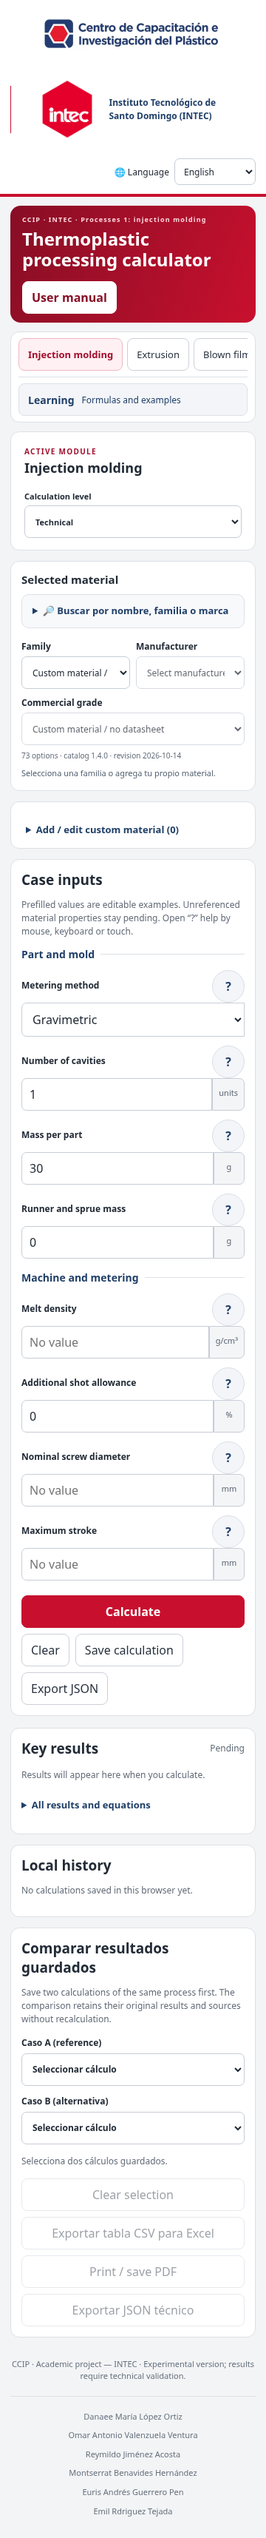
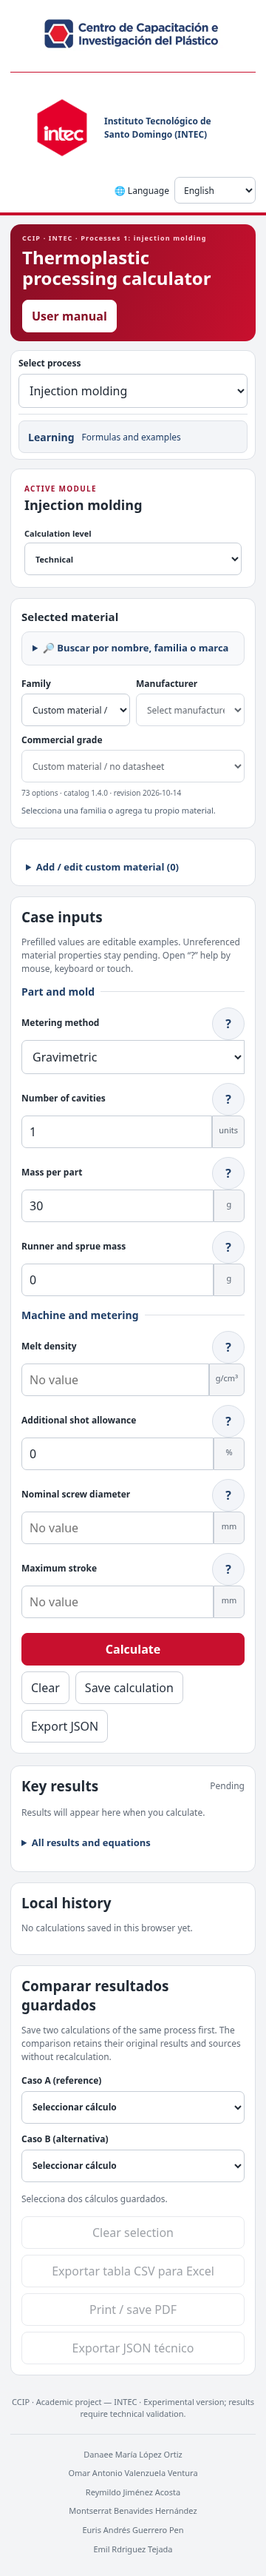
Fix mobile brand divider and share process navigation with responsive picker

diff --git a/src/styles.css b/src/styles.css
@@ -148,4 +148,8 @@ aside .learning-nav{display:block;overflow:visible;margin-top:16px;padding-top:1
 #user-manual{width:min(440px,calc(100% - 32px));padding:24px;border:1px solid var(--border);border-top:5px solid var(--red);border-radius:12px;color:var(--navy);background:#fff}#user-manual::backdrop{background:#15243b99}#user-manual h2{margin-top:0;font-size:22px}#user-manual p{font-size:15px;line-height:1.6}#user-manual form{text-align:right}
 .credits-divider{border:0;border-top:1px solid var(--border);margin:18px auto;max-width:660px}.academic-credits{list-style:none;padding:0;margin:0;display:grid;gap:8px;text-align:center;line-height:1.6;font-size:12px;font-weight:400;color:#65717d}
 @media(max-width:800px){.top{grid-template-columns:minmax(0,1fr);gap:0}.top .version-links{width:100%;justify-content:flex-end;margin-bottom:8px}.institutional-identity{justify-content:space-between}.hero{align-items:flex-start;gap:16px}.hero-copy{width:100%}}
-@media(max-width:540px){.institutional-identity{display:grid;grid-template-columns:1px minmax(0,1fr);gap:0 12px}.institutional-identity .brand{grid-column:1/-1;justify-self:center;width:252px;max-width:100%}.institutional-divider{grid-column:1}.intec-brand{grid-column:2;gap:12px;padding:12px}.institution-name{font-size:12px}.intec-logo{width:90px}.institutional-divider{height:64px}.hero{flex-direction:column;gap:14px}.hero .kicker{font-size:9px;line-height:1.5}.hero h1{font-size:24px;line-height:1.2}.academic-credits{font-size:11px}}
+@media(max-width:540px){.institutional-identity{display:grid;grid-template-columns:minmax(0,1fr);gap:12px 0}.institutional-identity .brand{grid-column:1;justify-self:center;width:252px;max-width:100%}.institutional-divider{grid-column:1;grid-row:2;width:100%;height:1px}.intec-brand{grid-column:1;grid-row:3;justify-self:center;width:100%;max-width:332px;gap:12px;padding:12px}.institution-name{font-size:12px}.intec-logo{width:90px}.hero{flex-direction:column;gap:14px}.hero .kicker{font-size:9px;line-height:1.5}.hero h1{font-size:24px;line-height:1.2}.academic-credits{font-size:11px}}
+
+/* El desplegable móvil comparte selectProcess con los botones de escritorio. */
+.mobile-process-picker{display:none}
+@media(max-width:800px){.mobile-process-picker{display:grid;gap:6px}.mobile-process-picker label{font-size:12px;font-weight:700}.mobile-process-picker select{width:100%;min-height:44px}aside #modules{display:none}}

diff --git a/src/app.js b/src/app.js
@@ -43,20 +43,26 @@ function invalidate() {
   for(const input of document.querySelectorAll('[data-field]')) input.removeAttribute('aria-invalid');
 }
 
+function selectProcess(id) {
+  if (!modules.some(m => m.id === id)) return;
+  sessions.set(state.id, { values: state.values, material: state.material, filters: state.filters });
+  const selectedGrade = state.material.grade_snapshot?.id;
+  state.id = id;
+  const session = sessions.get(state.id);
+  state.values = session?.values || initialValues();
+  state.material = session?.material || freshMaterial();
+  state.filters = session?.filters || { family: "", manufacturer: "" };
+  if (!session && selectedGrade) selectMaterial(library, state.material, state.values, selectedGrade);
+  closeLearning();draw();
+}
+
 function nav() {
   $("modules").innerHTML = modules.map(m => `<button data-module="${m.id}" aria-pressed="${m.id === state.id}" class="${m.id === state.id ? "active" : ""}">${safe(m.name)}</button>`).join("");
-  document.querySelectorAll("[data-module]").forEach(b => b.addEventListener("click", () => {
-    sessions.set(state.id, { values: state.values, material: state.material, filters: state.filters });
-    const selectedGrade = state.material.grade_snapshot?.id;
-    state.id = b.dataset.module;
-    const session = sessions.get(state.id);
-    state.values = session?.values || initialValues();
-    state.material = session?.material || freshMaterial();
-    state.filters = session?.filters || { family: "", manufacturer: "" };
-    if (!session && selectedGrade) selectMaterial(library, state.material, state.values, selectedGrade);
-    closeLearning();draw();
-  }));
+  document.querySelectorAll("[data-module]").forEach(b => b.addEventListener("click", () => selectProcess(b.dataset.module)));
+  $("process-select").innerHTML = modules.map(m => `<option value="${m.id}">${safe(m.name)}</option>`).join("");
+  $("process-select").value = state.id;
 }
+$("process-select").addEventListener("change", event => selectProcess(event.target.value));
 
 function draw() {
   nav();

diff --git a/index.html b/index.html
@@ -16,7 +16,7 @@
   <main class="shell">
     <section class="hero"><div class="hero-copy"><p class="kicker">CCIP · INTEC · Procesos 1: inyección</p><h1>Calculadora de procesos de transformación termoplásticos</h1><p>Selecciona el proceso y el nivel. Calcula con datos de tu caso y consulta las ayudas «?» y las fuentes cuando las necesites.</p></div><button id="manual-open" type="button" aria-haspopup="dialog" aria-controls="user-manual">Manual de uso</button></section>
     <div class="layout">
-      <aside><h2>Procesos</h2><nav id="modules" aria-label="Módulos de cálculo"></nav><nav class="learning-nav" aria-label="Aprendizaje"><a id="learn-page" href="./?view=learning"><b>Aprendizaje</b><span>Fórmulas y ejemplos</span></a></nav><p class="muted">Estimaciones académicas. Contrasta los resultados con fichas, mediciones y límites del equipo.</p></aside>
+      <aside><h2>Procesos</h2><div class="mobile-process-picker"><label for="process-select">Seleccionar proceso</label><select id="process-select"></select></div><nav id="modules" aria-label="Módulos de cálculo"></nav><nav class="learning-nav" aria-label="Aprendizaje"><a id="learn-page" href="./?view=learning"><b>Aprendizaje</b><span>Fórmulas y ejemplos</span></a></nav><p class="muted">Estimaciones académicas. Contrasta los resultados con fichas, mediciones y límites del equipo.</p></aside>
       <section class="work"><div id="calculator-view">
         <div class="bar"><div><p class="kicker">MÓDULO ACTIVO</p><h2 id="module-title"></h2><p id="module-desc" class="muted"></p></div><label class="level" for="level">Nivel de cálculo<select id="level"><option value="basic">Básico</option><option value="technical" selected>Técnico</option><option value="advanced">Avanzado</option></select></label></div>
         <section id="materials" class="panel material-panel" aria-labelledby="materials-title"></section><section id="custom-material-editor" class="panel" aria-label="Agregar material / Add custom material"></section>

diff --git a/src/i18n.js b/src/i18n.js
@@ -11,6 +11,7 @@ export const translations = { ...extraTranslations, ...auditTranslations, ...lea
 "Manual de uso en preparación":"User manual in preparation",
 "Cerrar":"Close",
 "Créditos académicos":"Academic credits",
+"Seleccionar proceso":"Select process",
 "Identidad institucional CCIP e INTEC":"CCIP and INTEC institutional identity",
 "Logo comercial del Instituto Tecnológico de Santo Domingo (INTEC)":"Commercial logo of Instituto Tecnológico de Santo Domingo (INTEC)",
 "Calculadoras de procesos plásticos":"Plastic process calculators",

diff --git a/tests/browser_smoke.py b/tests/browser_smoke.py
@@ -72,8 +72,15 @@ class BrowserSmoke(unittest.TestCase):
         finally:
             self.context.close()
 
+    def select_process(self, module):
+        picker = self.page.locator('#process-select')
+        if picker.count() and picker.is_visible():
+            picker.select_option(module)
+        else:
+            self.page.locator(f'[data-module="{module}"]').click()
+
     def fill_case(self, module, values, level="advanced"):
-        self.page.locator(f'[data-module="{module}"]').click()
+        self.select_process(module)
         self.page.locator('#level').select_option(level)
         if module=='secado' and self.page.locator('#calculation-grid').is_hidden():
             self.page.locator('#drying-manual').click()
@@ -92,7 +99,6 @@ class BrowserSmoke(unittest.TestCase):
 
     def assert_layout(self):
         self.assertTrue(self.page.evaluate('document.documentElement.scrollWidth <= innerWidth'), 'Desbordamiento horizontal de página')
-        # El menú móvil tiene desplazamiento horizontal intencional.
         outside = self.page.locator('input, select, .actions button, .metric strong, .help').evaluate_all('''els => els.filter(el => {
           const r = el.getBoundingClientRect();
           return r.width > 0 && (r.left < -1 || r.right > innerWidth + 1);
@@ -205,7 +211,7 @@ class BrowserSmoke(unittest.TestCase):
         r=self.record();self.assertEqual(len(r['metrics']),11);self.assertIsNone(r['metrics'][8]['value']);self.assertGreater(len(r['notes']),0)
 
     def test_T11_drying_filter_and_autofill(self):
-        self.page.locator('[data-module="secado"]').click();self.page.locator('#level').select_option('advanced')
+        self.select_process('secado');self.page.locator('#level').select_option('advanced')
         self.assertEqual(set(self.page.locator('#material-family option').evaluate_all('els=>els.map(e=>e.value)')),{'','ABS','PA6','PC'})
         self.grade('basf-ultramid-b3s-r03')
         self.assertEqual(self.page.locator('[data-field="residence"]').input_value(),'4')
@@ -216,14 +222,14 @@ class BrowserSmoke(unittest.TestCase):
         self.assertEqual(r['material']['used_fields']['residence']['reference']['value'],4)
 
     def test_T12_unavailable_drying_keeps_manual_path(self):
-        self.grade('generic-hdpe');self.page.locator('[data-module="secado"]').click()
+        self.grade('generic-hdpe');self.select_process('secado')
         self.assertTrue(self.page.locator('#calculation-grid').is_hidden())
         self.assertIn('no tiene tiempo/temperatura',self.page.locator('#drying-status').inner_text())
         self.page.locator('#drying-manual').click();self.assertTrue(self.page.locator('#calculation-grid').is_visible())
         self.page.locator('[data-field="residence"]').fill('3');r=self.record();self.assertEqual(r['metrics'][0]['value'],150)
 
     def test_T13_ranges_require_choice(self):
-        self.page.locator('[data-module="secado"]').click();self.page.locator('#level').select_option('advanced');self.grade('covestro-makrolon-2405')
+        self.select_process('secado');self.page.locator('#level').select_option('advanced');self.grade('covestro-makrolon-2405')
         self.assertEqual(self.page.locator('[data-field="residence"]').input_value(),'')
         self.assertEqual(self.page.locator('[data-field="targetT"]').input_value(),'120')
         self.page.locator('[data-field="residence"]').fill('2.5');r=self.record()
@@ -236,7 +242,7 @@ class BrowserSmoke(unittest.TestCase):
         self.assertIn('fuera del rango',r['material']['used_fields']['residence']['selection_reason'])
 
     def test_T14_no_inferred_cp(self):
-        self.page.locator('[data-module="secado"]').click();self.page.locator('#level').select_option('advanced');self.grade('basf-ultramid-b3s-r03')
+        self.select_process('secado');self.page.locator('#level').select_option('advanced');self.grade('basf-ultramid-b3s-r03')
         r=self.record();self.assertIsNone(r['metrics'][2]['value']);self.assertIsNone(r['material']['grade_snapshot']['properties']['specific_heat'])
         self.assertNotIn('Potencia térmica',self.page.locator('#calculation-output').inner_text())
         self.help('bulkDensity');self.page.locator('#material-physicalForm').select_option('pellets')
@@ -244,9 +250,9 @@ class BrowserSmoke(unittest.TestCase):
         self.assertEqual(self.page.locator('[data-field="bulkDensity"]').input_value(),'0.7')
 
     def test_T15_filters_are_process_specific(self):
-        self.grade('generic-hdpe');self.page.locator('[data-module="secado"]').click()
+        self.grade('generic-hdpe');self.select_process('secado')
         self.assertEqual(self.page.locator('#material-family option[value="HDPE"]').count(),0)
-        self.page.locator('[data-module="inyeccion"]').click()
+        self.select_process('inyeccion')
         self.assertEqual(self.page.locator('#material-grade').input_value(),'generic-hdpe')
         self.assertEqual(self.page.locator('[data-field="meltDensity"]').input_value(),'0.73')
 
@@ -300,9 +306,9 @@ class BrowserSmoke(unittest.TestCase):
         self.density(level='advanced');self.page.locator('#profile-details > summary').click();self.page.locator('#calculate').click()
         for scene in ['inyeccion','secado','sin-ficha','aprendizaje']:
             if scene=='secado':
-                self.page.locator('[data-module="secado"]').click();self.grade('basf-ultramid-b3s-r03');self.page.locator('#calculate').click()
+                self.select_process('secado');self.grade('basf-ultramid-b3s-r03');self.page.locator('#calculate').click()
             if scene=='sin-ficha':
-                self.page.locator('[data-module="inyeccion"]').click();self.grade('generic-hdpe')
+                self.select_process('inyeccion');self.grade('generic-hdpe')
             if scene=='aprendizaje':
                 self.page.locator('#learn-page').click();self.page.locator('#guide-inyeccion > summary').click();self.page.locator('#inyeccion-1 > summary').click()
             for width in [320,390,768,1024,1440]:
@@ -327,11 +333,11 @@ class BrowserSmoke(unittest.TestCase):
         self.assertTrue(all(x is None for x in r['material']['grade_snapshot']['properties'].values()))
         self.assertEqual(r['density_assessment']['origin'],'family_reference')
         self.assertIsNone(r['material']['grade_snapshot']['properties']['melt_density'])
-        self.page.locator('[data-module="secado"]').click();self.assertEqual(self.page.locator('#material-grade option[value="'+record['id']+'"]').count(),0)
+        self.select_process('secado');self.assertEqual(self.page.locator('#material-grade option[value="'+record['id']+'"]').count(),0)
 
     def test_T24_english_essential_flows(self):
         self.density();self.help('meltDensity');self.page.locator('#language').select_option('en');self.english_ui_is_complete()
-        self.page.keyboard.press('Escape');self.page.locator('[data-module="secado"]').click();self.english_ui_is_complete()
+        self.page.keyboard.press('Escape');self.select_process('secado');self.english_ui_is_complete()
         self.grade('basf-ultramid-b3s-r03');self.page.locator('#level').select_option('advanced');self.help('residence');self.english_ui_is_complete()
         self.page.keyboard.press('Escape');self.page.locator('#learn-page').click();self.page.locator('#guide-inyeccion > summary').click();self.page.locator('#inyeccion-1 > summary').click();self.english_ui_is_complete()
     def open_custom_property(self, key):
@@ -579,7 +585,7 @@ class BrowserSmoke(unittest.TestCase):
             self.assertEqual(self.page.locator('.academic-credits strong').count(),0)
             styles=self.page.locator('.academic-credits li').evaluate_all('els=>els.map(el=>{const s=getComputedStyle(el);return s.color+"|"+s.fontWeight})')
             self.assertEqual(len(set(styles)),1)
-            for width in [360,390,768,1024,1440]:
+            for width in [360,390,540,768,1024,1440]:
                 self.page.set_viewport_size({'width':width,'height':1000})
                 self.assert_layout()
                 self.assertTrue(self.page.locator('#manual-open').is_visible())
@@ -613,7 +619,7 @@ class BrowserSmoke(unittest.TestCase):
         self.assertEqual(self.page.locator('[data-lesson]').count(),42)
 
     def test_G40_stage1_official_logos_divider_and_clearspace(self):
-        for width in [360,390,768,1024,1440]:
+        for width in [360,390,540,768,1024,1440]:
             self.page.set_viewport_size({'width':width,'height':1000})
             for lang in ['es','en']:
                 self.page.locator('#language').select_option(lang)
@@ -631,11 +637,17 @@ class BrowserSmoke(unittest.TestCase):
                 self.assertGreaterEqual(name.bounding_box()['x'],box['x']+box['width'])
                 self.assertGreaterEqual(name.bounding_box()['x']-box['x']-box['width'],2*38*box['width']/801)
                 if width<=540:
-                    self.assertLessEqual(ccip['y']+ccip['height'],box['y'])
+                    self.assertLessEqual(ccip['y']+ccip['height'],divider['y'])
+                    self.assertLessEqual(divider['y']+divider['height'],box['y'])
+                    self.assertLessEqual(divider['height'],1.1)
+                    identity=self.page.locator('.institutional-identity').bounding_box()
+                    self.assertAlmostEqual(divider['x'],identity['x'],delta=1)
+                    self.assertAlmostEqual(divider['width'],identity['width'],delta=1)
+                    self.assertAlmostEqual(ccip['x']+ccip['width']/2,identity['x']+identity['width']/2,delta=1)
                 else:
                     self.assertLessEqual(ccip['x']+ccip['width'],divider['x'])
-                self.assertLess(divider['x'],box['x'])
-                self.assertLessEqual(divider['width'],1.1)
+                    self.assertLess(divider['x'],box['x'])
+                    self.assertLessEqual(divider['width'],1.1)
                 if width>540:
                     self.assertAlmostEqual(ccip['y']+ccip['height']/2,box['y']+box['height']/2,delta=1)
                 padding=logo.evaluate('el=>parseFloat(getComputedStyle(el.parentElement).paddingLeft)')
@@ -644,6 +656,75 @@ class BrowserSmoke(unittest.TestCase):
                 language=self.page.locator('#language').bounding_box()
                 self.assertTrue(language['x']>=box['x']+box['width'] or language['y']>=box['y']+box['height'])
         self.assertEqual(self.page.locator('.brand').get_attribute('href'),'./')
+
+    def test_G41_mobile_process_picker_and_desktop_buttons(self):
+        ids=['inyeccion','extrusion','pelicula','soplado','termoformado','secado','costos']
+        spanish=['Moldeo por inyección','Extrusión','Película soplada','Soplado de envases','Termoformado','Secado y acondicionamiento','Producción y costos']
+        english=['Injection molding','Extrusion','Blown film','Blow molding','Thermoforming','Drying and conditioning','Production and costs']
+        for width in [360,390,540,768,1024,1440]:
+            self.page.set_viewport_size({'width':width,'height':1000})
+            for language in ['es','en']:
+                self.page.locator('#language').select_option(language)
+                picker=self.page.locator('#process-select')
+                self.assertEqual(picker.locator('option').count(),7)
+                self.assertEqual(picker.locator('option').evaluate_all('els=>els.map(el=>el.value)'),ids)
+                self.assertEqual(picker.locator('option').all_text_contents(),spanish if language=='es' else english)
+                self.assertEqual(self.page.locator('label[for="process-select"]').text_content(),'Seleccionar proceso' if language=='es' else 'Select process')
+                self.assertEqual(picker.is_visible(),width<=800)
+                self.assertEqual(self.page.locator('#modules').is_visible(),width>800)
+                for i,module in enumerate(ids):
+                    self.select_process(module)
+                    self.assertEqual(picker.input_value(),module)
+                    self.assertEqual(self.page.locator('#modules .active').get_attribute('data-module'),module)
+                    selected=picker.locator('option:checked').text_content()
+                    self.assertEqual(self.page.locator('#module-title').text_content(),selected)
+                    level=['basic','technical','advanced'][i%3]
+                    self.page.locator('#level').select_option(level)
+                    if module=='secado':
+                        self.grade('ineos-styrolution-terluran-gp-22')
+                        drying=next(m for m in MATERIALS if m['id']=='ineos-styrolution-terluran-gp-22')['properties']['drying_time']
+                        duration=drying['value'] if drying['value'] is not None else drying['range'][0]
+                        self.page.locator('[data-field="residence"]').fill(str(duration))
+                    self.page.locator('#calculate').click()
+                    self.assertGreater(self.page.locator('.kpi').count(),0,(width,language,module,self.page.locator('#calculation-output').inner_text(),self.page.locator('input[data-field]').evaluate_all('els=>els.map(e=>[e.dataset.field,e.value])')))
+                    self.assertEqual(self.page.locator('#level').input_value(),level)
+                    self.assert_layout()
+                self.assertTrue(self.page.locator('aside').evaluate('el=>el.scrollWidth<=el.clientWidth'))
+
+    def test_G42_process_picker_sync_sessions_learning_and_history(self):
+        self.page.set_viewport_size({'width':390,'height':1000})
+        self.grade('generic-hdpe')
+        self.page.locator('[data-field="partMass"]').fill('47')
+        self.page.locator('#save').click()
+        self.select_process('extrusion')
+        self.page.locator('[data-field="width"]').fill('630')
+        self.page.locator('#level').select_option('advanced')
+        self.select_process('inyeccion')
+        self.assertEqual(self.page.locator('[data-field="partMass"]').input_value(),'47')
+        self.assertEqual(self.page.locator('#material-grade').input_value(),'generic-hdpe')
+        self.assertEqual(self.page.locator('#level').input_value(),'advanced')
+        self.page.set_viewport_size({'width':1440,'height':1000})
+        self.page.locator('[data-module="extrusion"]').click()
+        self.assertEqual(self.page.locator('#process-select').input_value(),'extrusion')
+        self.assertEqual(self.page.locator('[data-field="width"]').input_value(),'630')
+        self.page.set_viewport_size({'width':390,'height':1000})
+        self.assertEqual(self.page.locator('#process-select').input_value(),'extrusion')
+        self.page.locator('[data-history="0"]').click()
+        self.assertEqual(self.page.locator('#process-select').input_value(),'inyeccion')
+        self.page.locator('#learn-page').click()
+        self.assertIn('view=learning',self.page.url)
+        self.page.locator('#process-select').select_option('costos')
+        self.assertTrue(self.page.locator('#learning-view').is_hidden())
+        self.assertEqual(self.page.locator('#process-select').input_value(),'costos')
+        self.page.go_back()
+        self.assertTrue(self.page.locator('#learning-view').is_visible())
+        self.page.go_forward()
+        self.assertTrue(self.page.locator('#learning-view').is_hidden())
+        self.assertEqual(self.page.locator('#process-select').input_value(),'costos')
+        self.page.locator('#language').select_option('en')
+        self.assertEqual(self.page.locator('#process-select').input_value(),'costos')
+        self.select_process('extrusion')
+        self.assertEqual(self.page.locator('[data-field="width"]').input_value(),'630')
 
     def test_G32_custom_crud_import_export_persistence_and_units(self):
         self.open_custom_property('melt_density')
@@ -785,7 +866,7 @@ class BrowserSmoke(unittest.TestCase):
 
     def test_G37_custom_drying_filter_and_bulk_phase(self):
         record=self.page.evaluate('''async()=>{const {makeCustomMaterial}=await import('./src/custom-materials.js');const m=makeCustomMaterial({family:'PVC',grade:'PVC propio sintético',source:'Protocolo sintético, no propiedad industrial',drying_time:2,drying_temperature:60,bulk_density:500,bulk_density_unit:'kg/m3',bulk_density_form:'pellets'});localStorage.setItem('ccip-user-materials-v1',JSON.stringify([m]));return m}''')
-        self.page.reload();self.page.locator('[data-module="secado"]').click();self.page.locator('#level').select_option('technical');self.select_grade(record)
+        self.page.reload();self.select_process('secado');self.page.locator('#level').select_option('technical');self.select_grade(record)
         self.assertEqual(self.page.locator('[data-field="residence"]').input_value(),'2')
         self.help('bulkDensity');self.page.locator('#material-physicalForm').select_option('pellets')
         self.help('bulkDensity');self.page.locator('#material-bulkCompatible').check()

diff --git a/docs/etapa-1-identidad-aprendizaje.md b/docs/etapa-1-identidad-aprendizaje.md
@@ -6,14 +6,14 @@ Base funcional auditada: `feature/historial-nombres-comparacion-limpiar`, PR #9,
 
 | Punto del plan | Resultado | Archivos |
 | --- | --- | --- |
-| 6 · Cabecera | CCIP conservado a la izquierda, divisor vertical y logo comercial oficial INTEC a su derecha. Nombre completo «Instituto Tecnológico de Santo Domingo (INTEC)» junto al logo, sin traducir. Idioma y estado experimental conservados. Cabecera responsive compartida con la ruta histórica de fórmulas | `index.html`, `formulas.html`, `src/styles.css`, `src/assets/logo-intec-comercial.png` |
+| 6 · Cabecera | CCIP conservado a la izquierda, divisor vertical en escritorio / horizontal hasta 540 px y logo comercial oficial INTEC a su derecha o debajo, respectivamente. Nombre completo «Instituto Tecnológico de Santo Domingo (INTEC)» junto al logo, sin traducir. Idioma y estado experimental conservados. Cabecera responsive compartida con la ruta histórica de fórmulas | `index.html`, `formulas.html`, `src/styles.css`, `src/assets/logo-intec-comercial.png` |
 | 7 · Rótulo | `CCIP · INTEC · Procesos 1: inyección`, localizado en inglés, visible también en móvil | `index.html`, `src/i18n.js` |
 | 8 · Título | H1 exacto `Calculadora de procesos de transformación termoplásticos`; pestaña y traducción inglesa coherentes. Se conserva el degradado institucional | `index.html`, `src/styles.css`, `src/i18n.js` |
 | 9 · Manual | Botón visible abre el diálogo nativo con «Manual de uso en preparación». Cierre por botón y Escape, foco contenido y restaurado al botón. Sin manual inventado ni enlace falso | `index.html`, `src/manual-dialog.js`, `src/styles.css`, `src/i18n.js` |
 | 13 · Créditos | Texto académico original conservado, línea divisoria y seis nombres centrados en el orden y ortografía suministrados; todos con el mismo color y peso normal, según el ajuste posterior solicitado en el PR #10. Nombres propios sin traducción | `index.html`, `formulas.html`, `src/styles.css` |
-| 14 · Aprendizaje | Eliminada exclusivamente la fila de enlaces de proceso que duplicaba el selector. Se mantienen selectores proceso/nivel, 42 explicaciones, índice, acordeones, ejemplos, enlaces profundos, retorno y siete botones de la calculadora | `src/formulas-index.js`, `formulas.html` |
+| 14 · Aprendizaje | Eliminada exclusivamente la fila de enlaces de proceso que duplicaba el selector. Se mantienen selectores proceso/nivel, 42 explicaciones, índice, acordeones, ejemplos, enlaces profundos, retorno y navegación de los siete procesos (botones en escritorio, desplegable hasta 800 px) | `src/formulas-index.js`, `formulas.html` |
 
-El cambio de `formulas.html` es necesario para eliminar también la navegación duplicada de la ruta histórica, conservar sus enlaces y mantener una cabecera/pie coherentes. El módulo nuevo `manual-dialog.js` aísla los controles del mensaje del manual: `src/app.js` y la lógica de cálculo quedan intactos. El workflow solo incorpora la rama y base del PR a la validación existente; no añade despliegues.
+El cambio de `formulas.html` es necesario para eliminar también la navegación duplicada de la ruta histórica, conservar sus enlaces y mantener una cabecera/pie coherentes. El módulo nuevo `manual-dialog.js` aísla los controles del mensaje del manual. El ajuste móvil solicitado posteriormente requiere adaptar únicamente la navegación de `src/app.js`: botones y desplegable comparten `selectProcess`, que conserva el cuerpo de selección anterior, sus sesiones por proceso y la restauración de materiales/entradas. La lógica de cálculo permanece intacta. El workflow solo incorpora la rama y base del PR a la validación existente; no añade despliegues.
 
 ## Procedencia y uso del logo INTEC
 
@@ -36,24 +36,34 @@ No se publica ni fusiona: `main` permanece en `423c04b1710f8f009c811c893873184d3
 ## Pruebas
 
 - `npm test`: **550 aprobadas**, cero fallidas u omitidas (549 previas + integridad del logo oficial).
-- `python3 tests/browser_smoke.py`: **40 aprobadas**, cero fallidas u omitidas. Incluye títulos, diálogo, créditos y cabecera con logo original; 135 estados de cálculo de siete procesos/variantes en tres niveles, 73 perfiles y 27 ciclos ES/EN/ES.
-- Las pruebas de Etapa 1 recorren ambos idiomas y 360/390/768/1024/1440 px: ausencia de desbordamiento, imágenes cargadas, proporciones, mínimos, alineación, separación de controles, foco del manual y conservación del estado de aprendizaje/caso.
+- `python3 tests/browser_smoke.py`: **42 aprobadas**, cero fallidas u omitidas. Incluye títulos, diálogo, créditos y cabecera con logo original; 135 estados de cálculo de siete procesos/variantes en tres niveles, 73 perfiles y 27 ciclos ES/EN/ES.
+- Las pruebas de Etapa 1 recorren ambos idiomas y 360/390/540/768/1024/1440 px: ausencia de desbordamiento, imágenes cargadas, proporciones, mínimos, alineación, separación de controles, foco del manual y conservación del estado de aprendizaje/caso.
 - Se verifican las 42 explicaciones, alternativas e índice, y las rutas históricas/deep links de fórmulas.
 - Construcción y prueba de caché del artefacto se registran antes de entregar el PR, sin publicación.
 
 [Registro Node](capturas/etapa-1/node-tests.txt) · [Registro Chromium](capturas/etapa-1/browser-tests.txt).
 
-Se detectó al probar el diálogo que Tab podía mover el foco al navegador cuando solo había un control; se añadió manejo de Tab/Shift+Tab para mantener el foco en Cerrar. La regresión comprueba apertura por teclado, cierre por botón/Escape y retorno al botón en ambos idiomas y cinco anchos.
+Se detectó al probar el diálogo que Tab podía mover el foco al navegador cuando solo había un control; se añadió manejo de Tab/Shift+Tab para mantener el foco en Cerrar. La regresión comprueba apertura por teclado, cierre por botón/Escape y retorno al botón en ambos idiomas y seis anchos.
 
 ## Ajustes solicitados dentro del PR #10
 
 Se añadió el nombre completo junto al logo, conservándolo sin traducción según el manual. En móvil el bloque CCIP ocupa una fila y el conjunto INTEC + nombre otra, manteniendo logo y texto uno al lado del otro, sin reducir el mínimo de la marca ni invadir su protección. Los seis autores mantienen la misma ortografía y ahora comparten color y peso normal; esta instrucción posterior sustituye la jerarquía de negritas del prompt inicial. Se actualizaron las capturas y las pruebas de ambos componentes.
 
-Pruebas específicas del ajuste: cabecera/área de protección, créditos uniformes, manual y aprendizaje, en ambos idiomas y 360/390/768/1024/1440 px. [Registro](capturas/etapa-1/ajustes-pr10.txt).
+Pruebas específicas del ajuste: cabecera/área de protección, créditos uniformes, manual y aprendizaje, en ambos idiomas y 360/390/540/768/1024/1440 px. [Registro](capturas/etapa-1/ajustes-pr10.txt).
+
+## Corrección del divisor y navegación móvil — PR #10
+
+- Hasta 540 px se reutiliza el único divisor institucional: horizontal, ancho útil completo y rojo `var(--red)`, entre CCIP centrado e INTEC + nombre centrados. No se añade otro divisor ni queda una línea vertical. Se conservan la protección del logo, el idioma debajo y el borde rojo inferior del encabezado.
+- Por encima de 540 px la cabecera conserva su distribución previa. Se comprobó que es idéntica píxel a píxel al código `9c6fdfc` del PR, en 1024/1440 px y ES/EN con el mismo estado de foco. [Comparación](capturas/etapa-1/escritorio-sin-cambios.txt).
+- Hasta 800 px, coincidiendo con el breakpoint anterior de la fila desplazable, solo se muestra «Seleccionar proceso». Sus siete opciones se generan desde `modules`, con las mismas traducciones y sin un catálogo de procesos duplicado. Por encima de 800 px solo se muestran los botones de escritorio.
+- Ambos controles llaman a `selectProcess`; `nav()` sincroniza su valor con `state.id`, incluido al recuperar cálculos del historial o cambiar el tamaño de pantalla. Se conserva la misma memoria `sessions` de entradas, filtros y material por módulo, y el nivel activo.
+- Las rutas, filtros y enlaces de Aprendizaje, el cierre de esa vista y Atrás/Adelante se conservan. Los selectores propios de aprendizaje no se modifican.
+- La batería usa el control visible según el ancho, manteniendo las 135 verificaciones matemáticas. G41 añade 84 combinaciones de proceso/ancho/idioma y G42 comprueba botones/desplegable, memoria de entradas/materiales, recuperación del historial y navegación por aprendizaje. La prueba de secado elige expresamente un tiempo dentro del rango documentado; no se cambia la regla de selección explícita.
+- [Pruebas específicas](capturas/etapa-1/menu-movil.txt). No se modificaron motores, propiedades, créditos, manual ni archivos de logos en este ajuste.
 
 ## Evidencia visual
 
-[28 capturas antes/después](capturas/etapa-1/README.md): calculadora en ES/EN a 360/390/768/1024/1440 px, y aprendizaje en ES/EN a 390/1440 px. Las imágenes «antes» se tomaron sobre la base 8335961 antes de modificar los archivos. Las imágenes «después» reflejan la cabecera final con logo oficial.
+[30 capturas antes/después](capturas/etapa-1/README.md): 14 previas y 16 finales. La calculadora final se captura en ES/EN a 360/390/540/768/1024/1440 px, y aprendizaje en ES/EN a 390/1440 px. Las imágenes «antes» se tomaron sobre la base 8335961 antes de modificar los archivos. Las imágenes «después» reflejan la cabecera final con logo oficial.
 
 ## Límites y pendientes
 

diff --git a/docs/capturas/etapa-1/README.md b/docs/capturas/etapa-1/README.md
@@ -1,6 +1,6 @@
 # Etapa 1 — capturas de revisión
 
-Cabecera con CCIP y logo comercial original de INTEC con el nombre completo a su lado, divisor, nuevo título/rótulo, manual informativo, créditos de color y peso uniformes y aprendizaje sin botones duplicados. El PNG de INTEC se descargó del sitio oficial y coincide byte a byte con su ZIP; véase [procedencia](../../fuentes/logo-intec-comercial.json).
+Cabecera con CCIP y logo comercial original de INTEC con el nombre completo a su lado; divisor horizontal hasta 540 px y vertical en escritorio; desplegable de procesos hasta 800 px; nuevo título/rótulo, manual informativo, créditos de color y peso uniformes y aprendizaje sin botones duplicados. El PNG de INTEC se descargó del sitio oficial y coincide byte a byte con su ZIP; véase [procedencia](../../fuentes/logo-intec-comercial.json).
 
 Base antes: `83359612fa7ca5b862ea25f01fabdacbb03c3ef7`, PR #9. Capturas locales, sin publicación.
 
@@ -15,4 +15,4 @@ Base antes: `83359612fa7ca5b862ea25f01fabdacbb03c3ef7`, PR #9. Capturas locales,
 | Aprendizaje EN, móvil | [390 px](antes/aprendizaje-en-390.png) | [390 px](despues/aprendizaje-en-390.png) |
 | Aprendizaje EN, escritorio | [1440 px](antes/aprendizaje-en-1440.png) | [1440 px](despues/aprendizaje-en-1440.png) |
 
-Las carpetas también contienen las calculadoras a 360, 768 y 1024 px en ambos idiomas: 14 capturas antes y 14 después. [Informe](../../etapa-1-identidad-aprendizaje.md). [Integridad de archivos protegidos](integridad.json).
+Las carpetas contienen las calculadoras a 360/390/768/1024/1440 px en ambos idiomas; las finales también incluyen 540 px. Hay 14 capturas antes y 16 después. [540 px ES](despues/calculadora-es-540.png) · [540 px EN](despues/calculadora-en-540.png). [Pruebas del menú móvil](menu-movil.txt) · [Cabecera escritorio sin cambios](escritorio-sin-cambios.txt). [Informe](../../etapa-1-identidad-aprendizaje.md). [Integridad de archivos protegidos](integridad.json).
